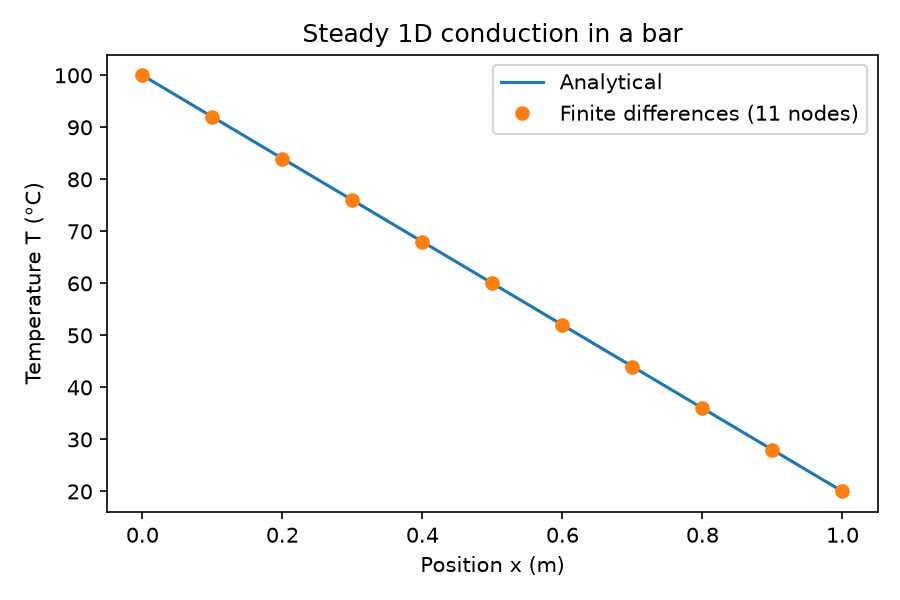
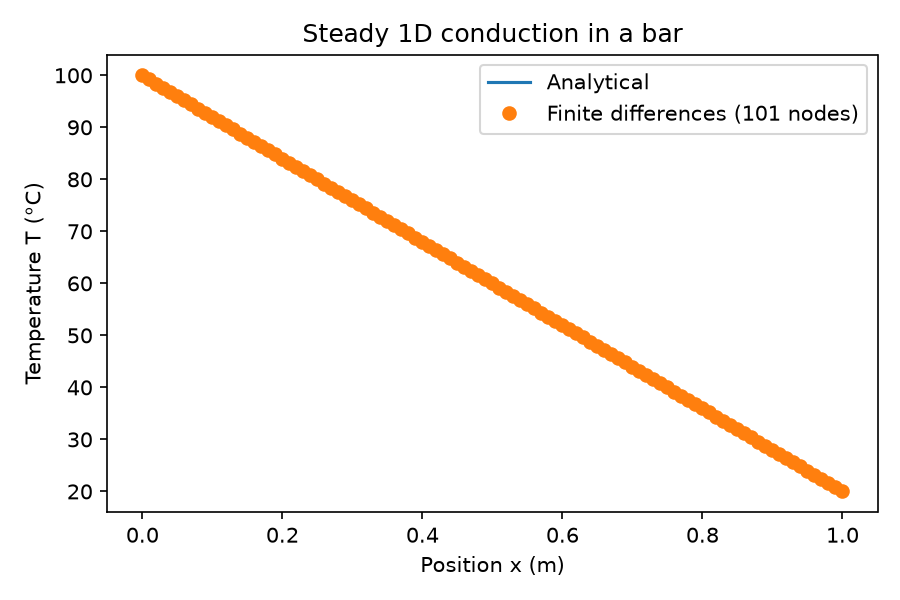
Test finite-difference solution with 101 nodes

Changed region(s): [[0.1556, 0.12, 0.6222, 0.54], [0.5289, 0.12, 0.8711, 0.24], [0.6222, 0.54, 0.9333, 0.84]]

diff --git a/src/run_case.py b/src/run_case.py
@@ -11,7 +11,7 @@ from analytical import analytical_temperature
 from finite_difference import solve_temperature
 
 # ---- Case parameters: this is the only place to change them ----
-N_NODES = 11
+N_NODES = 101
 LENGTH = 1.0      # m
 T_LEFT = 100.0    # deg C
 T_RIGHT = 20.0    # deg C
